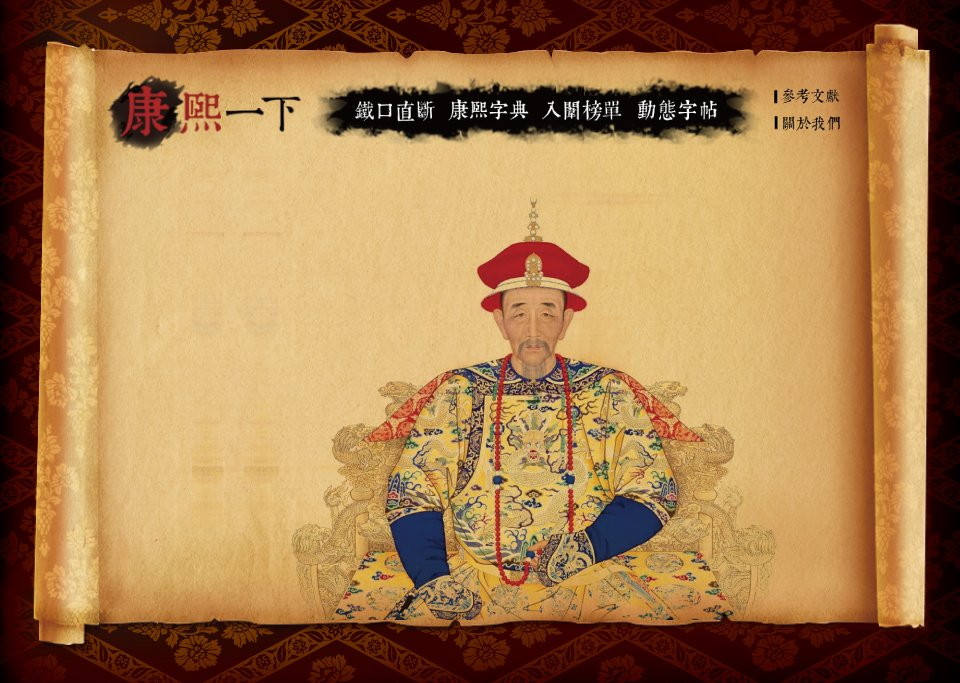
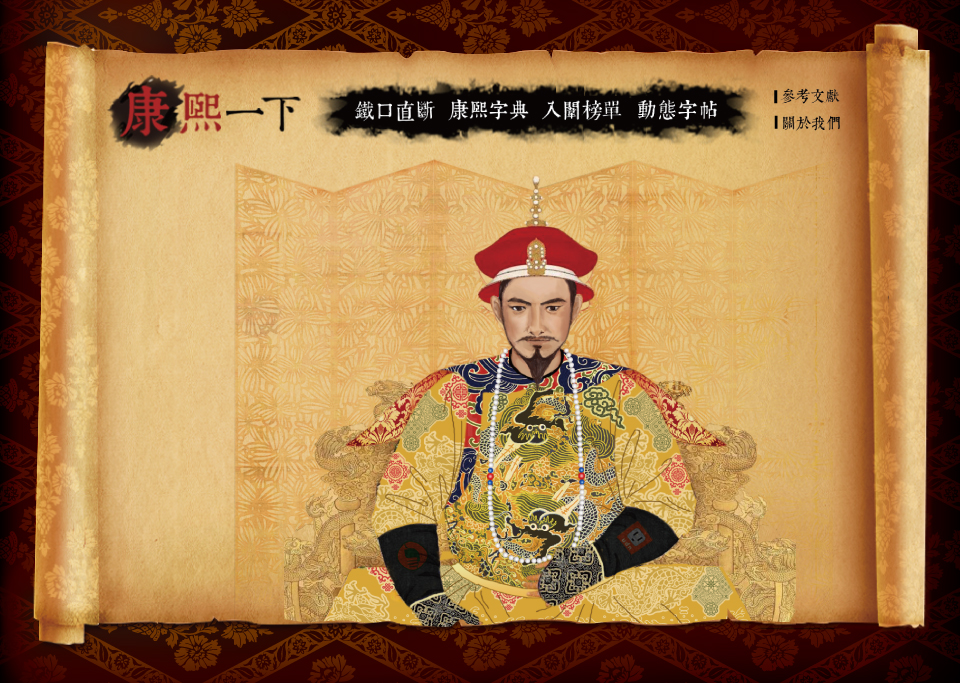
V0.3 換新背景, 選單滑入效果,「朕知道了」自動跳頁, 輸入欄提醒錯誤.

Changed region(s): [[0.1875, 0.2152, 0.8438, 0.9224], [0.8125, 0.123, 0.875, 0.1845]]

diff --git a/kangxi.js b/kangxi.js
@@ -206,15 +206,24 @@ $( document ).ready(function() {
 			if(name1 == "")
 			{
 				show_msg(9);
+				$("#input_name1").attr("placeholder","請輸入姓氏");
 				$("#input_name1").focus();
 				return false;
 			}	  				
 			num1 = get_name_num(name1);
-			if(num1 == 0) return false;
+			if(num1 == 0)
+			{
+				show_msg(9);
+				$("#input_name1").val("");
+				$("#input_name1").attr("placeholder","此字不在資料庫中");
+				$("#input_name1").focus();
+				return false;
+			}
 			show_msg(1);
 			$("#page1").hide();
 			$("#page2").show();
-			$("#number").focus();
+			$("#input_number").focus();
+			$("#input_number").attr("placeholder","");
 			return false;
 	});
 	$("#form2").submit(
@@ -223,13 +232,25 @@ $( document ).ready(function() {
 			if($.isNumeric(number) == false)
 			{
 				show_msg(9);
-				$("#number").focus();
+				$("#input_number").val("");
+				$("#input_number").attr("placeholder","請輸入數字");
+				$("#input_number").focus();
 				return false;
 			}
-			if(number > 90 || number <= (num1 + 1))
+			if(number <= num1 + 1)
 			{
 				show_msg(9);
-				$("#number").focus();
+				$("#input_number").val("");
+				$("#input_number").attr("placeholder","總筆劃太少了");
+				$("#input_number").focus();
+				return false;
+			}
+			if(number > ((words.length -1) * 2 ) + num1)	// 每個字最多 30 劃
+			{
+				show_msg(9);
+				$("#input_number").val("");
+				$("#input_number").attr("placeholder","總筆劃太大了");
+				$("#input_number").focus();
 				return false;
 			}
 			/*
@@ -243,7 +264,8 @@ $( document ).ready(function() {
 			$("#page2").hide();
 			$("#page3").show();
 			show_msg(1);
-			$("#name2").focus();
+			$("#input_name2").attr("placeholder","");
+			$("#input_name2").focus();
 			return false;
 	});
 	$("#form3").submit(
@@ -252,21 +274,42 @@ $( document ).ready(function() {
 			if(name2 == "")
 			{
 				show_msg(9);
-				$("#name2").focus();
+				$("#input_name2").val("");
+				$("#input_name2").attr("placeholder","請輸入字詞");
+				$("#input_name2").focus();
 				return false;
 			}
 			num2 = get_name_num(name2);
-			if(num2 == 0) return false;
-			
-			num3 = number - num1 - num2;
-			if(num3 < 1 || num3 > 30)
+			if(num2 == 0)
 			{
 				show_msg(9);
+				$("#input_name2").val("");
+				$("#input_name2").attr("placeholder","此字不在資料庫中");
+				$("#input_name2").focus();
+				return false;
+			}
+			
+			num3 = number - num1 - num2;
+			if(num3 < 1)
+			{
+				show_msg(9);
+				$("#input_name2").val("");
+				$("#input_name2").attr("placeholder","此字筆劃太多");
+				return false;
+			}
+			if(num3 > 30)
+			{
+				show_msg(9);
+				$("#input_name2").val("");
+				$("#input_name2").attr("placeholder","此字筆劃太少");
 				return false;
 			}
 			if (number > 80) number = number - 80;
 			show_msg(2);
 			$("#page3").hide();
+			$("#message").delay(1000).fadeOut(1000, function () {
+				show_page5();
+			});
 			return false;
 	});
 	$("#page1_next").click(
@@ -294,6 +337,14 @@ $( document ).ready(function() {
 			$("#page6").show();
 			return false;
 	});
+	$("#menu_1").mouseenter(
+		function() {
+			$("#menu_1").css("background-image" , "url(image/menu1.png)");
+	});
+	$("#menu_1").mouseleave(
+		function() {
+			$("#menu_1").css("background-image" , "");
+	});
 	$("#menu_1").click(
 		function() {
 		  	// 上方鐵口直斷選單
@@ -303,9 +354,24 @@ $( document ).ready(function() {
 	  		$("#page6").hide();
 	  		$("#page7").hide();
 	  		$("#page8").hide();
-	  		$("#page1").show();
-  			show_msg(1);
+	  		show_page1();
   			return false;
+	});
+	$("#menu_2").mouseenter(
+		function() {
+			$("#menu_2").css("background-image" , "url(image/menu2.png)");
+	});
+	$("#menu_2").mouseleave(
+		function() {
+			$("#menu_2").css("background-image" , "");
+	});
+	$("#menu_3").mouseenter(
+		function() {
+			$("#menu_3").css("background-image" , "url(image/menu3.png)");
+	});
+	$("#menu_3").mouseleave(
+		function() {
+			$("#menu_3").css("background-image" , "");
 	});
 	$("#menu_3").click(
 		function() {
@@ -322,6 +388,14 @@ $( document ).ready(function() {
 	  		$("#page7").show();
 	  		return false;
 	});
+	$("#menu_4").mouseenter(
+		function() {
+			$("#menu_4").css("background-image" , "url(image/menu4.png)");
+	});
+	$("#menu_4").mouseleave(
+		function() {
+			$("#menu_4").css("background-image" , "");
+	});
 	$("#menu_5").click(
 		function() {
 			location.assign("reference.htm");
@@ -330,7 +404,7 @@ $( document ).ready(function() {
 		function() {
 			location.assign("about.htm");
 	});
-	$("#input_name1").focus();
+	// $("#input_name1").focus();
 });
 
 // 由文字取得筆畫
@@ -343,8 +417,8 @@ function get_name_num(name)
 			return i;
 		}
 	}
-	msg = "錯誤：此 '" + name + "' 字不在資料庫中, 無法判斷";
-	show_msg(9);
+	//msg = "錯誤：此 '" + name + "' 字不在資料庫中, 無法判斷";
+	//show_msg(9);
 	return 0;
 }
 
@@ -359,6 +433,15 @@ function get_name23()
 	}
 }
 
+// 呈現第一頁
+function show_page1()
+{
+  	show_msg(1);
+	$("#page1").show();
+	$("#input_name1").focus();
+	$("#input_name1").attr("placeholder","");
+}
+
 // 呈現第五頁
 function show_page5()
 {
@@ -368,9 +451,11 @@ function show_page5()
 	draw_page5();
 	show_msg(5);
 	
+	/*
 	// 解除滑鼠游標及臨時產生的連結
 	$("#message").css("cursor" , "default");
 	$("#message").unbind( "click" );
+	*/
 	$("#page5").show();
 	return false;
 }
@@ -546,12 +631,14 @@ function show_msg(msg)
 		$("#message").css("left", "605px");
 		$("#message").css("top", "195px");
 		$("#img_message").attr("src", "image/msg_isee.png");
+		/*
 		$("#message").css("cursor" , "pointer");
 		// 產生臨時的連結
 		$("#message").click(
 			function () {
 				show_page5();
 		});
+		*/
 		$("#message").show();
 	}
 	else if(msg == 5)

diff --git a/index.htm b/index.htm
@@ -10,14 +10,16 @@
 <body>
     <!-- 上方選單按鈕 ----------------------------------------------- -->
     <div id="menu_1" class="menu"></div>
+    <div id="menu_2" class="menu"></div>
     <div id="menu_3" class="menu"></div>
+    <div id="menu_4" class="menu"></div>
     <div id="menu_5" class="menu"></div>
     <div id="menu_6" class="menu"></div>
     <!-- page 1 ----------------------------------------------------- -->
 	<div id="page1">
 		<form id="form1" name="form1" method="post" action="">
 			<img id="img_ask_name1" src="image/ask_name1.png"/>
-		    <input type="text" name="input_name1" id="input_name1">
+		    <input type="text" name="input_name1" id="input_name1" autofocus required="required">
 		    <div id="page1_next"></div>
 		</form>
     </div>
@@ -25,7 +27,7 @@
 	<div id="page2" class="not_show">
 		<form id="form2" name="form2" method="post" action="">
 			<img id="img_ask_number" src="image/ask_number.png"/>
-		    <input type="text" name="input_number" id="input_number">
+		    <input type="text" name="input_number" id="input_number" autofocus>
 		    <div id="page2_next"></div>
 		</form>
     </div>
@@ -33,7 +35,7 @@
 	<div id="page3" class="not_show">
 		<form id="form3" name="form3" method="post" action="">
 			<img id="img_ask_name2" src="image/ask_name2.png"/>
-		    <input type="text" name="input_name2" id="input_name2">
+		    <input type="text" name="input_name2" id="input_name2" autofocus>
 		    <div id="page3_next"></div>
 		</form>
     </div>

diff --git a/kangxi.css b/kangxi.css
@@ -16,12 +16,16 @@ div.not_show {display: none;}
 div.menu {
 	position: absolute;
 	top: 99px;
+	top: 96px;
 	cursor: pointer;
 }
-div#menu_1 { left: 352px; width: 85px; height: 24px;}
-div#menu_3 { left: 540px; width: 85px; height: 24px;}
+div#menu_1 { left: 350px; width: 88px; height: 28px;}
+div#menu_2 { left: 445px; width: 88px; height: 28px; cursor: default;}
+div#menu_3 { left: 538px; width: 88px; height: 28px;}
+div#menu_4 { left: 633px; width: 88px; height: 28px; cursor: default;}
 div#menu_5 { left: 773px; top: 88px; width: 70px; height: 16px;}
 div#menu_6 { left: 773px; top: 115px; width: 70px; height: 16px;}
+
 
 /* 前三頁 問問題 */
 #img_ask_name1 , #img_ask_number , #img_ask_name2 {
